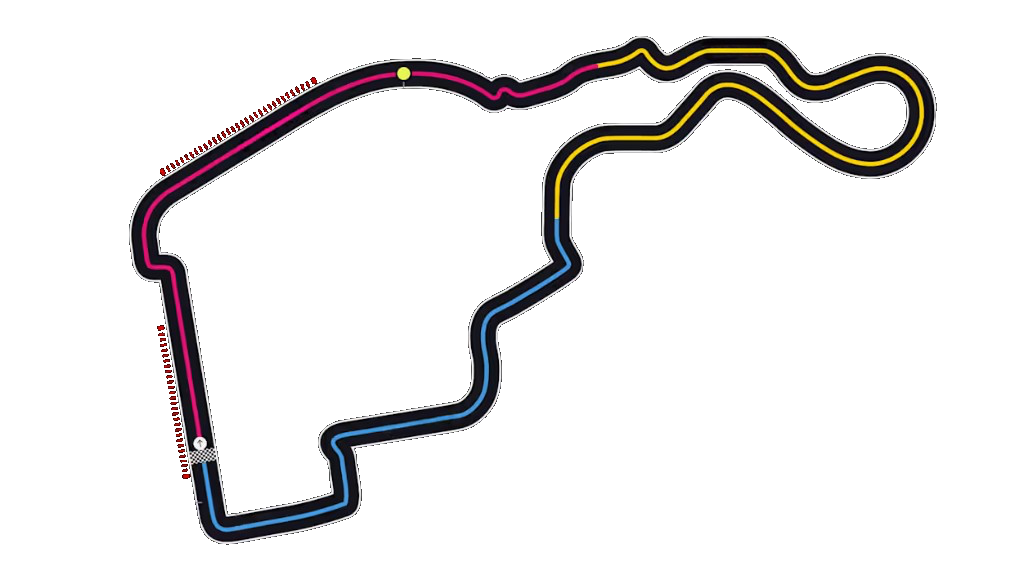
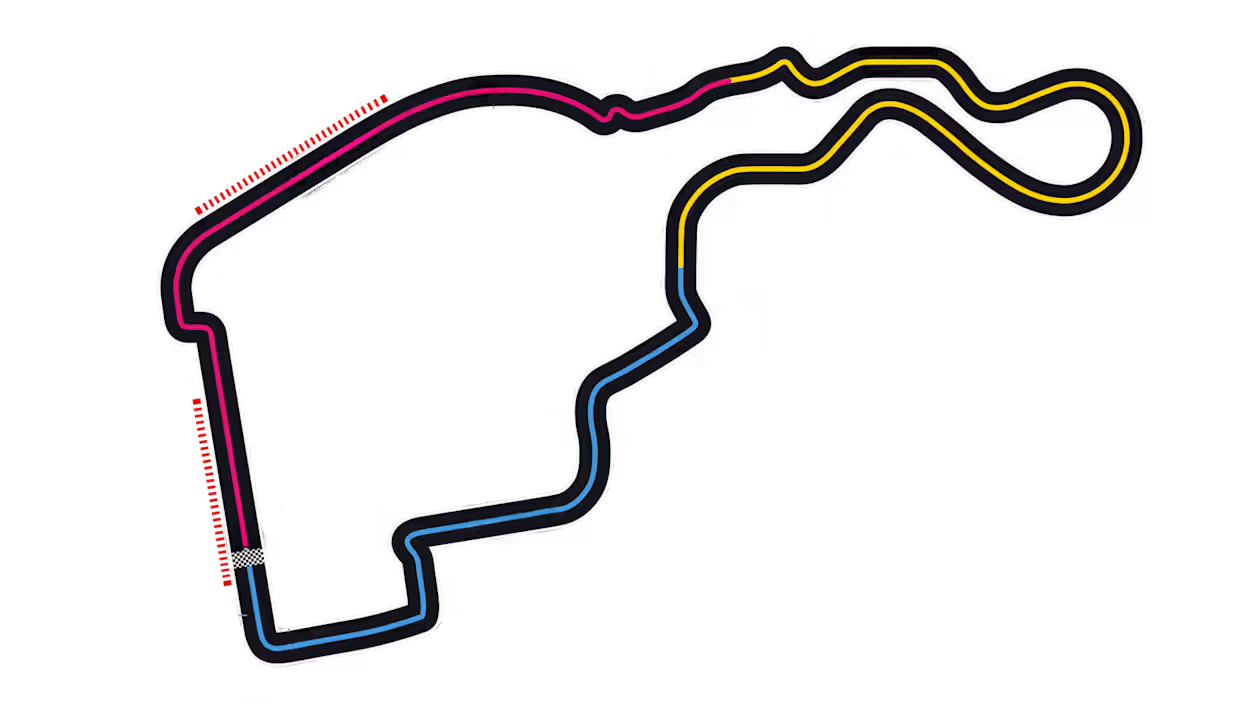
Use the colour Madring map on setup cards and drop the locked TRACK row
- Replace madrid_setup_track.png with the sector-coloured detail map and
  point Lane Racer / Multiplayer menu art at it (invert: false so the
  card shows it in true colour instead of inverting it like line art).
- Lane Racer and Multiplayer setup cards only render the TRACK row when
  the picker offers more than one circuit; while locked to the current
  GP the hero band already names and draws it.
- Career / Quick Race HUD: extra bottom margin under the dual progress
  grid so the squares sit clear of the keypad. Other HUDs unchanged.

diff --git a/client/src/pages/Multiplayer.tsx b/client/src/pages/Multiplayer.tsx
@@ -1459,19 +1459,25 @@ export default function Multiplayer() {
   if (gameStatus === "track_select") {
     const displayCircuit = selectedCircuit || MENU_CIRCUITS[0];
 
+    // TRACK row only when there is a real choice. While the picker is locked to the
+    // current GP (LOCK_MENU_TO_CURRENT_GP) the hero band already names and draws the
+    // circuit, so a single-option row would just repeat it.
+    const trackRow: SetupRowSpec[] = MENU_CIRCUITS.length > 1
+      ? [{
+          id: 'track',
+          label: 'Track',
+          // Only circuits with proper thin-line art are selectable — see circuitMenuArt.ts.
+          // The hero band shows the silhouette and updates as you cycle.
+          options: MENU_CIRCUITS.map((c) => ({ id: c.id, label: c.name })),
+          selectedId: displayCircuit.id,
+          onSelect: (id) => {
+            const circuit = MENU_CIRCUITS.find((c) => c.id === id);
+            if (circuit) setSelectedCircuit(circuit);
+          },
+        }]
+      : [];
     const rows: SetupRowSpec[] = [
-      {
-        id: 'track',
-        label: 'Track',
-        // Only circuits with proper thin-line art are selectable — see circuitMenuArt.ts.
-        // The hero band shows the silhouette and updates as you cycle.
-        options: MENU_CIRCUITS.map((c) => ({ id: c.id, label: c.name })),
-        selectedId: displayCircuit.id,
-        onSelect: (id) => {
-          const circuit = MENU_CIRCUITS.find((c) => c.id === id);
-          if (circuit) setSelectedCircuit(circuit);
-        },
-      },
+      ...trackRow,
       operationRow(selectedOperation, setSelectedOperation),
     ];
 
@@ -1499,6 +1505,7 @@ export default function Multiplayer() {
               flagSrc: CIRCUIT_MENU_ART[displayCircuit.id]?.flag,
             }}
             mapImageSrc={CIRCUIT_MENU_ART[displayCircuit.id]?.image}
+            invertMap={CIRCUIT_MENU_ART[displayCircuit.id]?.invert ?? true}
             rows={rows}
             /* Level is not a choice here — both cars race the host's stored preference. */
             readouts={[{ label: 'Level', value: difficultyMode === 'adaptive' ? 'Adaptive' : lockedLevelLabel }]}

diff --git a/client/src/pages/LaneRacer.tsx b/client/src/pages/LaneRacer.tsx
@@ -504,21 +504,27 @@ export default function LaneRacer() {
 
   // Setup
   if (gameStatus === 'setup') {
+    // TRACK row only when there is a real choice. While the picker is locked to the
+    // current GP (LOCK_MENU_TO_CURRENT_GP) the hero band already names and draws the
+    // circuit, so a single-option row would just repeat it.
+    const trackRow: SetupRowSpec[] = CIRCUIT_OPTIONS.length > 1
+      ? [{
+          id: 'track',
+          label: 'Track',
+          // Text-only: the hero band shows the circuit silhouette and updates as you cycle.
+          options: CIRCUIT_OPTIONS.map((c) => ({ id: c.id, label: c.name })),
+          selectedId: selectedCircuit.id,
+          onSelect: (id) => {
+            const i = CIRCUIT_OPTIONS.findIndex((c) => c.id === id);
+            if (i >= 0) {
+              setCurrentCircuitIndex(i);
+              setSelectedCircuit(CIRCUIT_OPTIONS[i]);
+            }
+          },
+        }]
+      : [];
     const rows: SetupRowSpec[] = [
-      {
-        id: 'track',
-        label: 'Track',
-        // Text-only: the hero band shows the circuit silhouette and updates as you cycle.
-        options: CIRCUIT_OPTIONS.map((c) => ({ id: c.id, label: c.name })),
-        selectedId: selectedCircuit.id,
-        onSelect: (id) => {
-          const i = CIRCUIT_OPTIONS.findIndex((c) => c.id === id);
-          if (i >= 0) {
-            setCurrentCircuitIndex(i);
-            setSelectedCircuit(CIRCUIT_OPTIONS[i]);
-          }
-        },
-      },
+      ...trackRow,
       {
         id: 'team',
         label: 'Team',
@@ -582,6 +588,7 @@ export default function LaneRacer() {
             testId="lr-setup"
             header={{ eyebrow: 'Lane Racer', title: selectedCircuit.name, flagSrc: CIRCUIT_MENU_ART[selectedCircuit.id]?.flag }}
             mapImageSrc={CIRCUIT_MENU_ART[selectedCircuit.id]?.image}
+            invertMap={CIRCUIT_MENU_ART[selectedCircuit.id]?.invert ?? true}
             /* No per-circuit stage override — every silhouette uses the same stage (Spa's). */
             rows={rows}
             start={{ label: 'Start', tone: 'green', onStart: startGame }}

diff --git a/client/src/pages/Game.tsx b/client/src/pages/Game.tsx
@@ -2757,6 +2757,11 @@ export default function Game() {
   const isGpRace = isGrandPrix && grandPrixPhase === 'rw_race';
 
   // Racing phase
+  const gridLargeTenCol =
+    isGrandPrix && (grandPrixPhase === 'rw_practice' || grandPrixPhase === 'rw_qualifying');
+  const gridLayout: 'single' | 'dual' =
+    effectiveSimMode || (isPracticeMode && !isGrandPrix) ? 'single' : 'dual';
+
   return (
     <GameLayout trackName={selectedCircuit?.name || ""} lockViewport hideGarageButton hideHeader={isGpRace} shellStyle={isGpRace ? {
         backgroundColor: gpRaceFlash ? GP_RACE_FLASH[gpRaceFlash] : '#ffffff',
@@ -3134,8 +3139,13 @@ export default function Game() {
           )}
           {!isGpRace && (
           <SectorProgressGrid
-            className="my-0 mb-1"
-            largeTenCol={isGrandPrix && (grandPrixPhase === 'rw_practice' || grandPrixPhase === 'rw_qualifying')}
+            /* Career / Quick Race (dual BOT + player grid, not the GP 10-col grid) gets extra
+               room below so the squares sit clear of the keypad. Other HUDs keep mb-1. */
+            className={cn(
+              "my-0",
+              !gridLargeTenCol && gridLayout === 'dual' ? "mb-5" : "mb-1",
+            )}
+            largeTenCol={gridLargeTenCol}
             progress={progress}
             raceLength={raceLength}
             sectorResults={lapResults}
@@ -3143,9 +3153,7 @@ export default function Game() {
             rivalSectorResults={botLapResults}
             showRival={raceMode === 'bot' && !isPracticeMode}
             currentSectorRed={currentSectorRed}
-            layout={
-              effectiveSimMode || (isPracticeMode && !isGrandPrix) ? 'single' : 'dual'
-            }
+            layout={gridLayout}
             labelRight={`${(effectiveSimMode || (isPracticeMode && !isGrandPrix)) ? 'Limits' : 'Warnings'}: ${mistakes}`}
             labelRightClassName={cn(mistakes > 0 && 'text-red-500')}
             rivalLabel="BOT"

diff --git a/client/src/lib/circuitMenuArt.ts b/client/src/lib/circuitMenuArt.ts
@@ -8,7 +8,7 @@ import circuitSuzukaBlack from '@/assets/circuit_suzuka_black.png';
 import circuitSilverstoneBlack from '@/assets/circuit_silverstone_black.png';
 import circuitHungaryBlack from '@/assets/circuit_hungary_black.png';
 import circuitZandvoort from '@/assets/circuit_zandvoort.png';
-import circuitMadrid from '@/assets/circuit_madrid.png';
+import madridSetupTrack from '@/assets/madrid_setup_track.png';
 
 import flagBelgium from '@/assets/flag_belgium.png';
 import flagMonaco from '@/assets/flag_monaco.png';
@@ -23,6 +23,11 @@ export interface CircuitMenuArt {
   /** Thin-line `_black` silhouette, rendered inverted on the dark setup card. */
   image: string;
   flag: string;
+  /**
+   * `false` when `image` is full-colour detail art (sector ribbon, DRS zones, start line)
+   * that must NOT be inverted on the card. Defaults to `true` (black line art).
+   */
+  invert?: boolean;
 }
 
 /**
@@ -48,9 +53,9 @@ export const CIRCUIT_MENU_ART: Record<string, CircuitMenuArt> = {
   // Zandvoort art is the ~700px rotation silhouette (not thin-line _black) — fine while
   // the menu is locked to the current GP; revisit if the full picker reopens.
   zandvoort: { image: circuitZandvoort, flag: flagNetherlands },
-  // Madrid art is the ~700px rotation silhouette (not thin-line _black) — fine while
-  // the menu is locked to the current GP; revisit if the full picker reopens.
-  madrid: { image: circuitMadrid, flag: flagSpain },
+  // Madrid uses the same full-colour detail map as the Free Practice / GP setup card
+  // (sector ribbon, DRS zones, start line) — shown as-is, never inverted.
+  madrid: { image: madridSetupTrack, flag: flagSpain, invert: false },
 };
 
 /**
